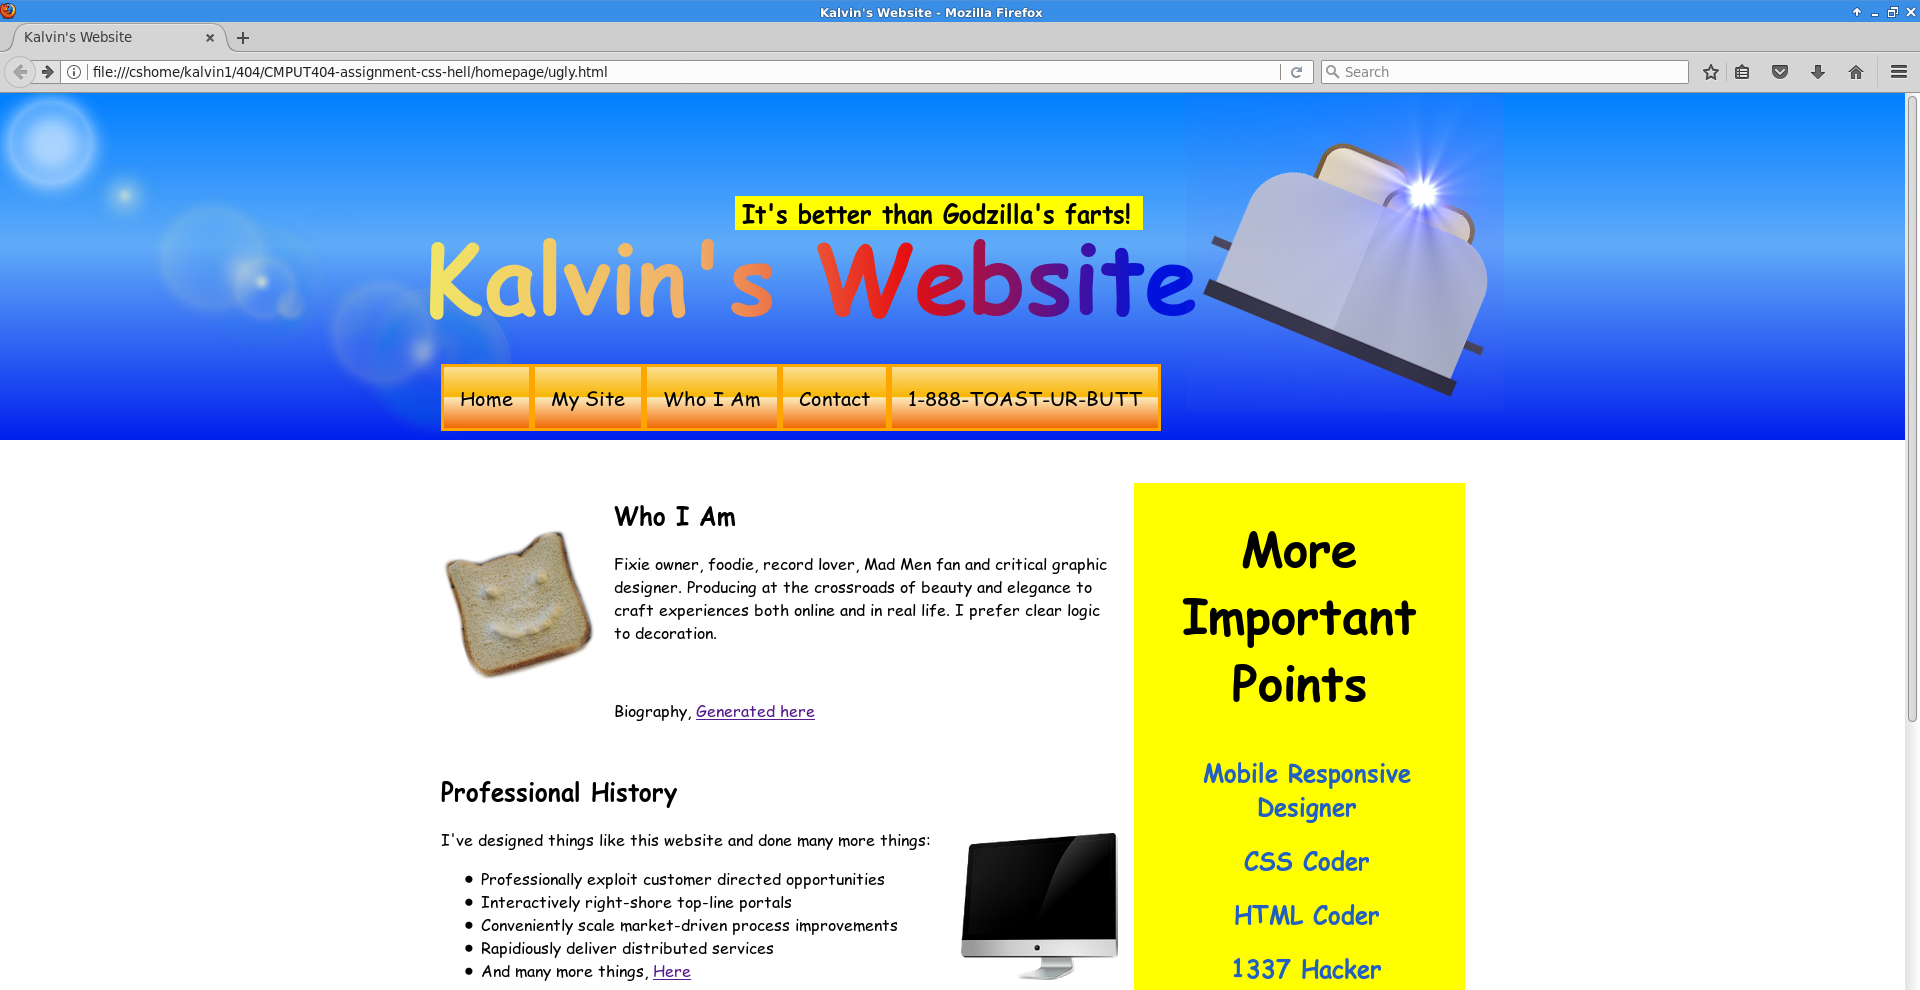
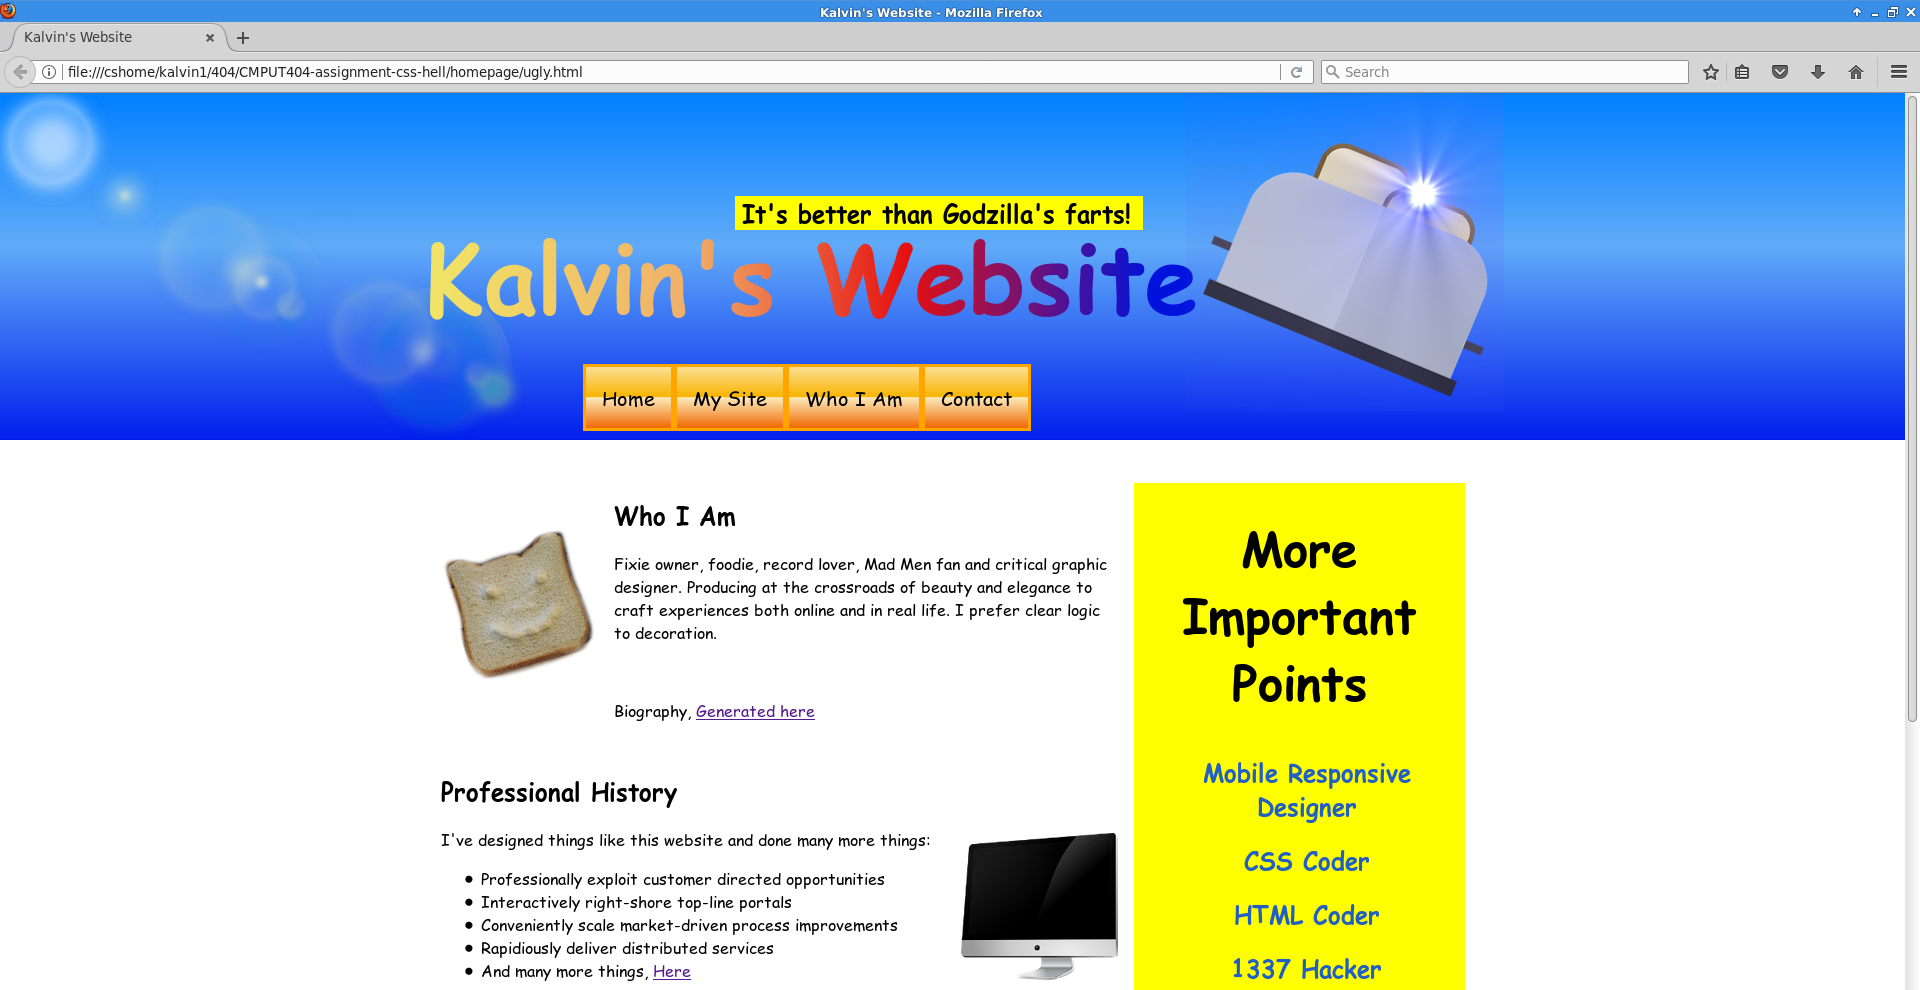
fixed nav of bad to better match oatmeal

Changed region(s): [[0.2188, 0.3636, 0.625, 0.4545], [0.0, 0.0606, 0.3125, 0.0909]]

diff --git a/homepage/css/ugly.css b/homepage/css/ugly.css
@@ -88,6 +88,7 @@ img#imglogo {
 }
 nav {
     margin-top: -4%;
+    margin-left: 15%;
     padding-bottom: 2.5%;
 }
 nav ul {
@@ -117,6 +118,9 @@ nav ul li a {
     background: linear-gradient(to bottom, rgba(251, 223, 147, 1) 0%, rgba(248, 181, 0, 1) 49%, rgba(252, 234, 187, 1) 50%, rgba(240, 106, 3, 1) 100%);
     filter: progid: DXImageTransform.Microsoft.gradient( startColorstr='#fbdf93', endColorstr='#f06a03', GradientType=0);
     border: solid orange;
+}
+nav ul li#number {
+    display: none;
 }
 section div img#toast {
     margin-top: 50px;
